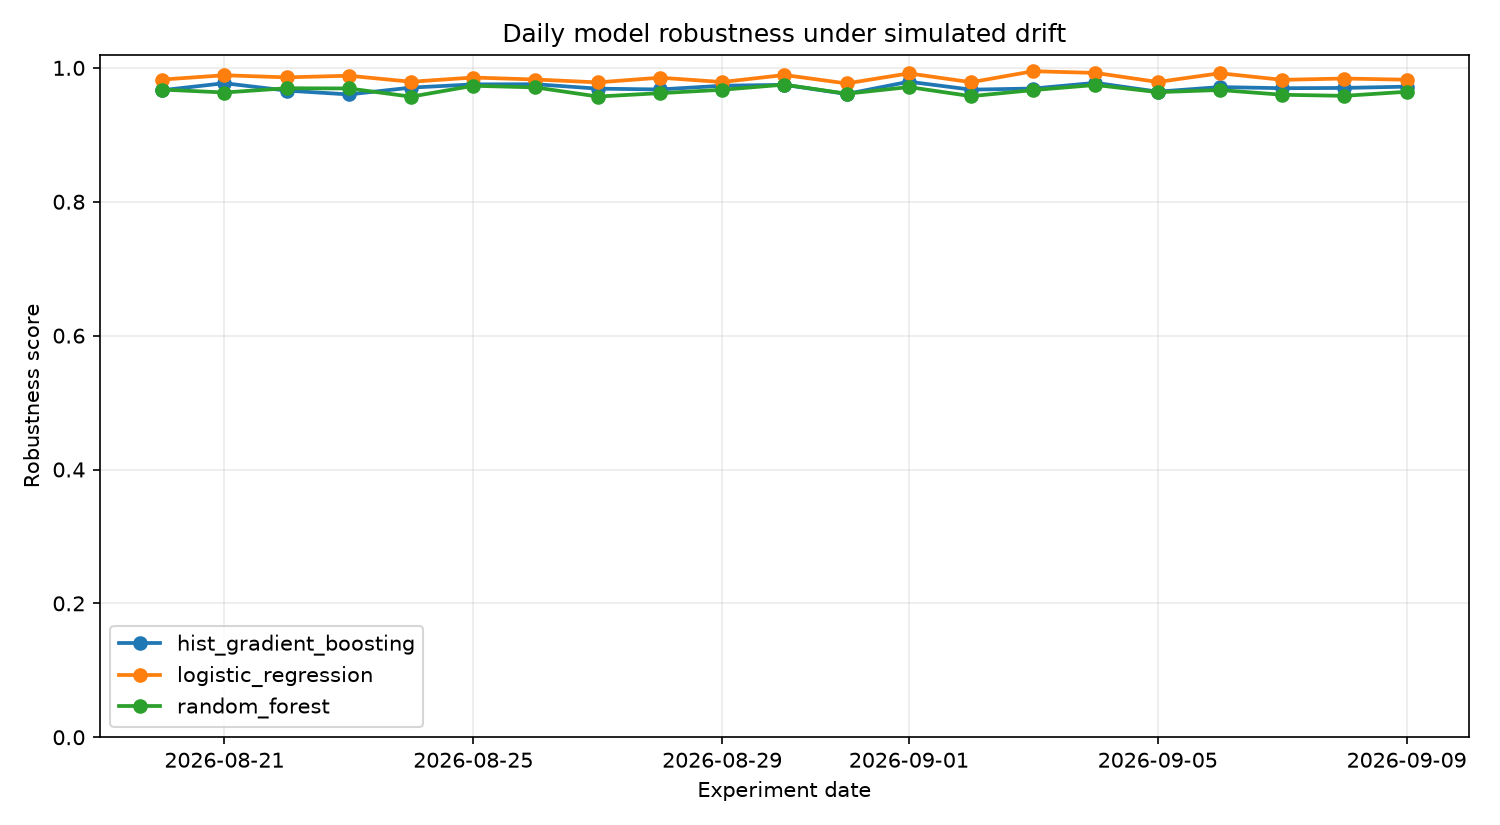
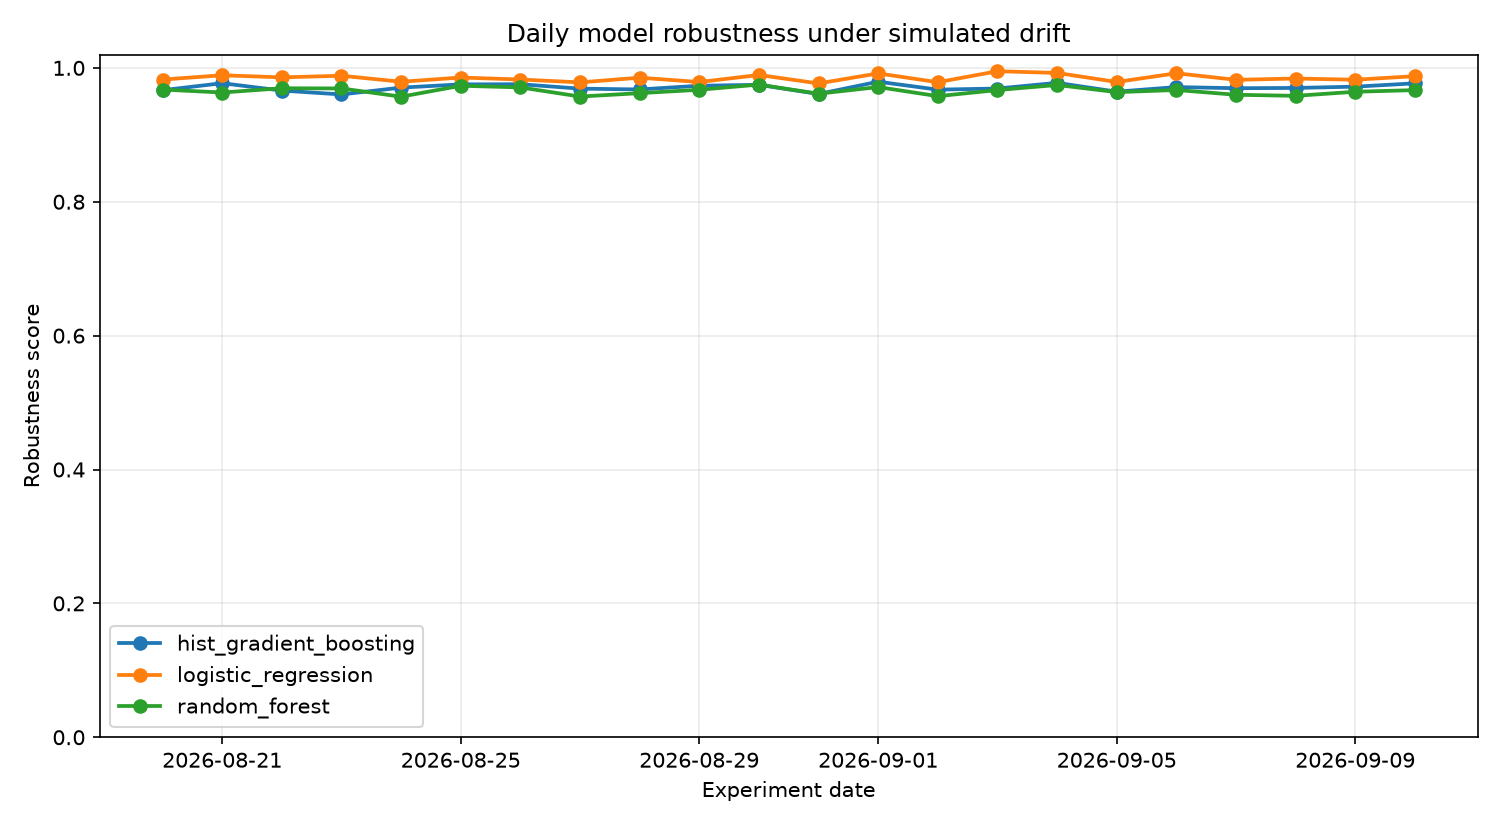
chore(observatory): daily drift benchmark 2026-09-10

diff --git a/reports/latest.md b/reports/latest.md
@@ -1,37 +1,37 @@
 # Latest DriftWatch Report
 
-**Experiment date:** 2026-09-09
+**Experiment date:** 2026-09-10
 
 ## Drift scenario
 
-- Drift strength: `0.218`
-- Scale factor: `1.022`
-- Noise ratio: `0.051`
-- Mask ratio: `0.013`
-- Affected features: mean radius, smoothness error, compactness error, concave points error, worst texture, worst compactness
+- Drift strength: `0.183`
+- Scale factor: `0.982`
+- Noise ratio: `0.047`
+- Mask ratio: `0.011`
+- Affected features: mean radius, texture error, perimeter error, smoothness error, compactness error, worst area
 
 ## Model ranking
 
 | Rank | Model | Robustness | ROC-AUC | F1 | Balanced Acc. | Log Loss | Brier |
 |---:|---|---:|---:|---:|---:|---:|---:|
-| 1 | `logistic_regression` | 0.9823 | 0.9981 | 0.9714 | 0.9688 | 0.0771 | 0.0211 |
-| 2 | `hist_gradient_boosting` | 0.9720 | 0.9936 | 0.9633 | 0.9438 | 0.0988 | 0.0321 |
-| 3 | `random_forest` | 0.9643 | 0.9931 | 0.9488 | 0.9298 | 0.1232 | 0.0352 |
+| 1 | `logistic_regression` | 0.9876 | 0.9988 | 0.9811 | 0.9782 | 0.0712 | 0.0189 |
+| 2 | `hist_gradient_boosting` | 0.9769 | 0.9939 | 0.9727 | 0.9531 | 0.1137 | 0.0305 |
+| 3 | `random_forest` | 0.9668 | 0.9931 | 0.9537 | 0.9344 | 0.1221 | 0.0346 |
 
 ## Highest feature drift (PSI)
 
 | Feature | PSI |
 |---|---:|
-| compactness error | 0.2488 |
-| concave points error | 0.2267 |
-| smoothness error | 0.1801 |
-| mean texture | 0.1458 |
-| texture error | 0.1408 |
-| worst compactness | 0.1377 |
-| worst concavity | 0.1220 |
-| symmetry error | 0.1063 |
+| perimeter error | 0.2001 |
+| texture error | 0.1983 |
+| worst concavity | 0.1416 |
+| fractal dimension error | 0.1320 |
+| mean texture | 0.1230 |
+| worst concave points | 0.1071 |
+| worst fractal dimension | 0.0927 |
+| worst radius | 0.0923 |
 
-**Mean PSI:** `0.0955`  
-**Max PSI:** `0.2488`
+**Mean PSI:** `0.0819`  
+**Max PSI:** `0.2001`
 
 _Generated automatically by the DriftWatch daily observatory pipeline._
